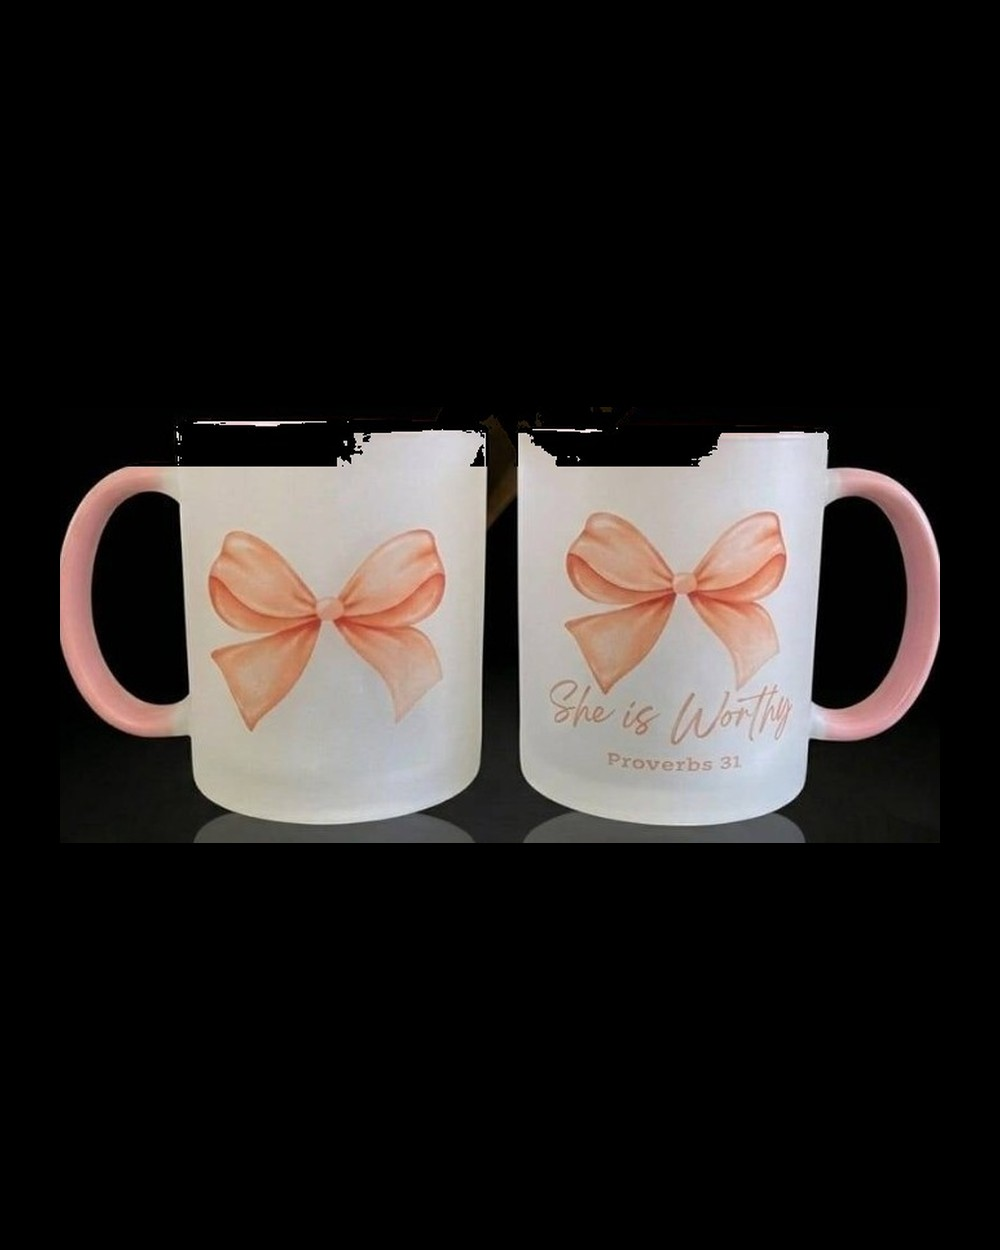
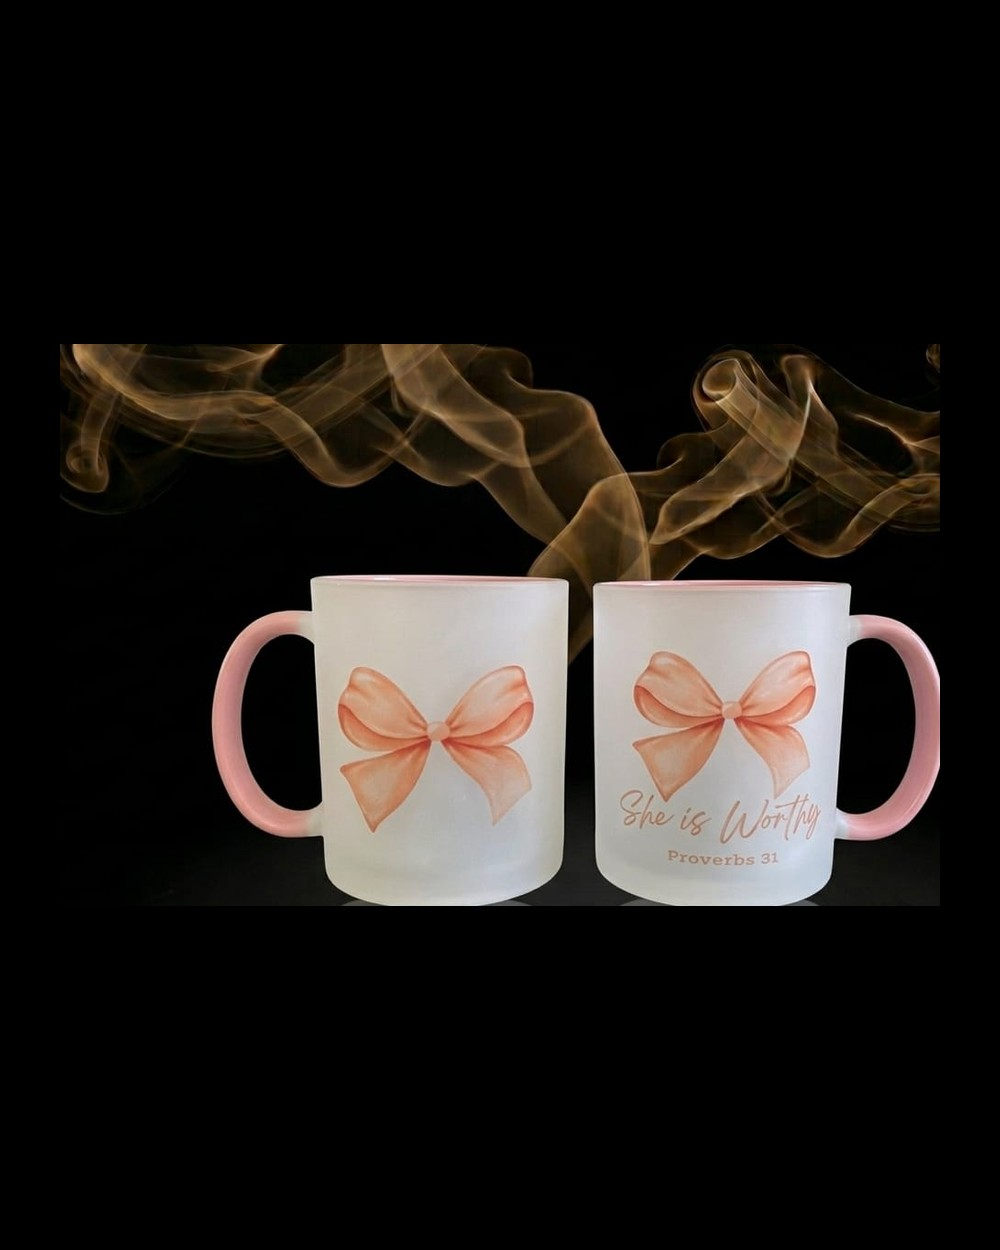
Crop She is Worthy, Homosapien, and AC Fitness from WA source frames
Re-process the three marketing photos supplied by the owner: strip logo,
contact line, and smoke while keeping the full product group in frame.

Changed region(s): [[0.062, 0.2496, 0.961, 0.7488]]

diff --git a/scripts/crop-incoming-products.py b/scripts/crop-incoming-products.py
@@ -1,0 +1,141 @@
+"""Crop WA marketing frames dropped in assets/incoming/ down to the product."""
+
+from __future__ import annotations
+
+from pathlib import Path
+
+from PIL import Image
+
+INCOMING = Path(__file__).resolve().parents[1] / "assets" / "incoming"
+ROOT = Path(__file__).resolve().parents[1] / "public" / "products"
+CANVAS = (1000, 1250)
+MARGIN = 0.06
+INK = 28
+MIN_PAD = 24
+
+
+def is_ink(pixel: tuple[int, int, int]) -> bool:
+    return pixel[0] <= INK and pixel[1] <= INK and pixel[2] <= INK
+
+
+def crop_runs(image: Image.Image, **options: float | int) -> Image.Image:
+    width, height = image.size
+    pixels = image.load()
+    y_max = float(options.get("y_max", 0.72))
+    x_min = float(options.get("x_min", 0.03))
+    x_max = float(options.get("x_max", 0.97))
+    min_run = int(options.get("min_run", 80))
+    ink = int(options.get("ink", 26))
+    lid = float(options.get("lid", 0))
+    pad = int(options.get("pad", 16))
+    rows: list[tuple[int, int, int]] = []
+    x0, x1 = int(width * x_min), int(width * x_max)
+    y1 = int(height * y_max)
+    for y in range(int(height * 0.04), y1):
+        run = best = 0
+        start = best_start = best_end = 0
+        for x in range(x0, x1):
+            r, g, b = pixels[x, y]
+            if r >= ink or g >= ink or b >= ink:
+                if run == 0:
+                    start = x
+                run += 1
+                if run > best:
+                    best = run
+                    best_start = start
+                    best_end = x
+            else:
+                run = 0
+        if best < min_run:
+            continue
+        if y < height * 0.38 and (best_end < width * 0.32 or best_start > width * 0.68):
+            continue
+        if y > height * 0.62 and best_end < width * 0.38:
+            continue
+        rows.append((y, best_start, best_end))
+    if not rows:
+        raise RuntimeError("No product row detected")
+    left = min(row[1] for row in rows)
+    right = max(row[2] for row in rows)
+    top = rows[0][0]
+    bottom = rows[-1][0]
+    if lid:
+        top = max(int(height * 0.04), top - int((bottom - top) * lid))
+    return image.crop(
+        (
+            max(0, left - pad),
+            max(0, top - pad),
+            min(width, right + pad + 1),
+            min(height, bottom + pad + 1),
+        )
+    )
+
+
+def normalize(image: Image.Image) -> Image.Image:
+    width, height = image.size
+    pixels = image.load()
+    min_x, min_y, max_x, max_y = width, height, 0, 0
+    for y in range(height):
+        for x in range(width):
+            if is_ink(pixels[x, y]):
+                continue
+            min_x = min(min_x, x)
+            min_y = min(min_y, y)
+            max_x = max(max_x, x)
+            max_y = max(max_y, y)
+    pad = max(MIN_PAD, int(max(width, height) * 0.04))
+    cropped = image.crop(
+        (
+            max(0, min_x - pad),
+            max(0, min_y - pad),
+            min(width, max_x + pad + 1),
+            min(height, max_y + pad + 1),
+        )
+    )
+    canvas = Image.new("RGB", CANVAS, (0, 0, 0))
+    max_w = int(CANVAS[0] * (1 - MARGIN * 2))
+    max_h = int(CANVAS[1] * (1 - MARGIN * 2))
+    scale = min(max_w / cropped.width, max_h / cropped.height)
+    resized = cropped.resize(
+        (max(1, int(cropped.width * scale)), max(1, int(cropped.height * scale))),
+        Image.Resampling.LANCZOS,
+    )
+    offset = ((CANVAS[0] - resized.width) // 2, (CANVAS[1] - resized.height) // 2)
+    canvas.paste(resized, offset)
+    return canvas
+
+
+JOBS = [
+    {
+        "source": "worthy-bow-mugs-source.jpg",
+        "dest": ROOT / "coffee-mugs" / "worthy-bow-mugs.jpg",
+        "crop": lambda image: crop_runs(image, y_max=0.68, min_run=100, pad=20),
+    },
+    {
+        "source": "homosapien-mug-source.jpg",
+        "dest": ROOT / "coffee-mugs" / "homosapien-mug.jpg",
+        "crop": lambda image: crop_runs(image, y_max=0.58, min_run=80, x_min=0.12, x_max=0.88, pad=20),
+    },
+    {
+        "source": "ac-fitness-bottle-source.jpg",
+        "dest": ROOT / "water-bottles" / "ac-fitness-bottle.jpg",
+        "crop": lambda image: image.crop((175, 255, 785, 795)),
+    },
+]
+
+
+def main() -> None:
+    for job in JOBS:
+        source_path = INCOMING / job["source"]
+        if not source_path.exists():
+            raise FileNotFoundError(source_path)
+        image = Image.open(source_path).convert("RGB")
+        cropped = job["crop"](image)
+        output = normalize(cropped)
+        job["dest"].parent.mkdir(parents=True, exist_ok=True)
+        output.save(job["dest"], quality=90, optimize=True)
+        print(f"ok  {job['dest'].relative_to(ROOT.parents[1])}  crop {cropped.size}")
+
+
+if __name__ == "__main__":
+    main()

diff --git a/scripts/reframe-ac-fitness.py b/scripts/reframe-ac-fitness.py
@@ -44,10 +44,6 @@ def content_box(image: Image.Image) -> tuple[int, int, int, int]:
 
 # Original WA crops include a partial product on the left. Reframe to fully visible items.
 REFRAMES = {
-    "water-bottles/ac-fitness-bottle.jpg": {
-        "crop": (35, 0, 195, 540),
-        "note": "Single centre bottle; far-left sliver removed.",
-    },
     "can-coolers/ac-fitness-cans.jpg": {
         "crop": (300, 0, 530, 592),
         "note": "Centre can only; partial left/right cans from WA crop removed.",

diff --git a/assets/incoming/README.md b/assets/incoming/README.md
@@ -1,10 +1,17 @@
 # Product source photos
 
-Drop the original WhatsApp marketing JPGs here (for example `WhatsApp Image 2026-...-WA0114-.jpg`), then run:
+Drop the original WhatsApp marketing JPGs here, then run the matching crop script.
 
 ```bash
+python3 scripts/crop-incoming-products.py
 python3 scripts/crop-tumblers.py
 python3 scripts/normalize-product-images.py
 ```
 
-The Brother tumbler photo is currently broken because only the lid strip was saved. It needs its original WA source frame re-cropped with the script above.
+Saved sources:
+
+- `worthy-bow-mugs-source.jpg` — She is Worthy frosted mugs
+- `homosapien-mug-source.jpg` — World's Best Homosapien mug
+- `ac-fitness-bottle-source.jpg` — AC Fitness bottle trio
+
+The Brother tumbler photo is currently broken because only the lid strip was saved. It needs its original WA source frame re-cropped with `crop-tumblers.py`.
